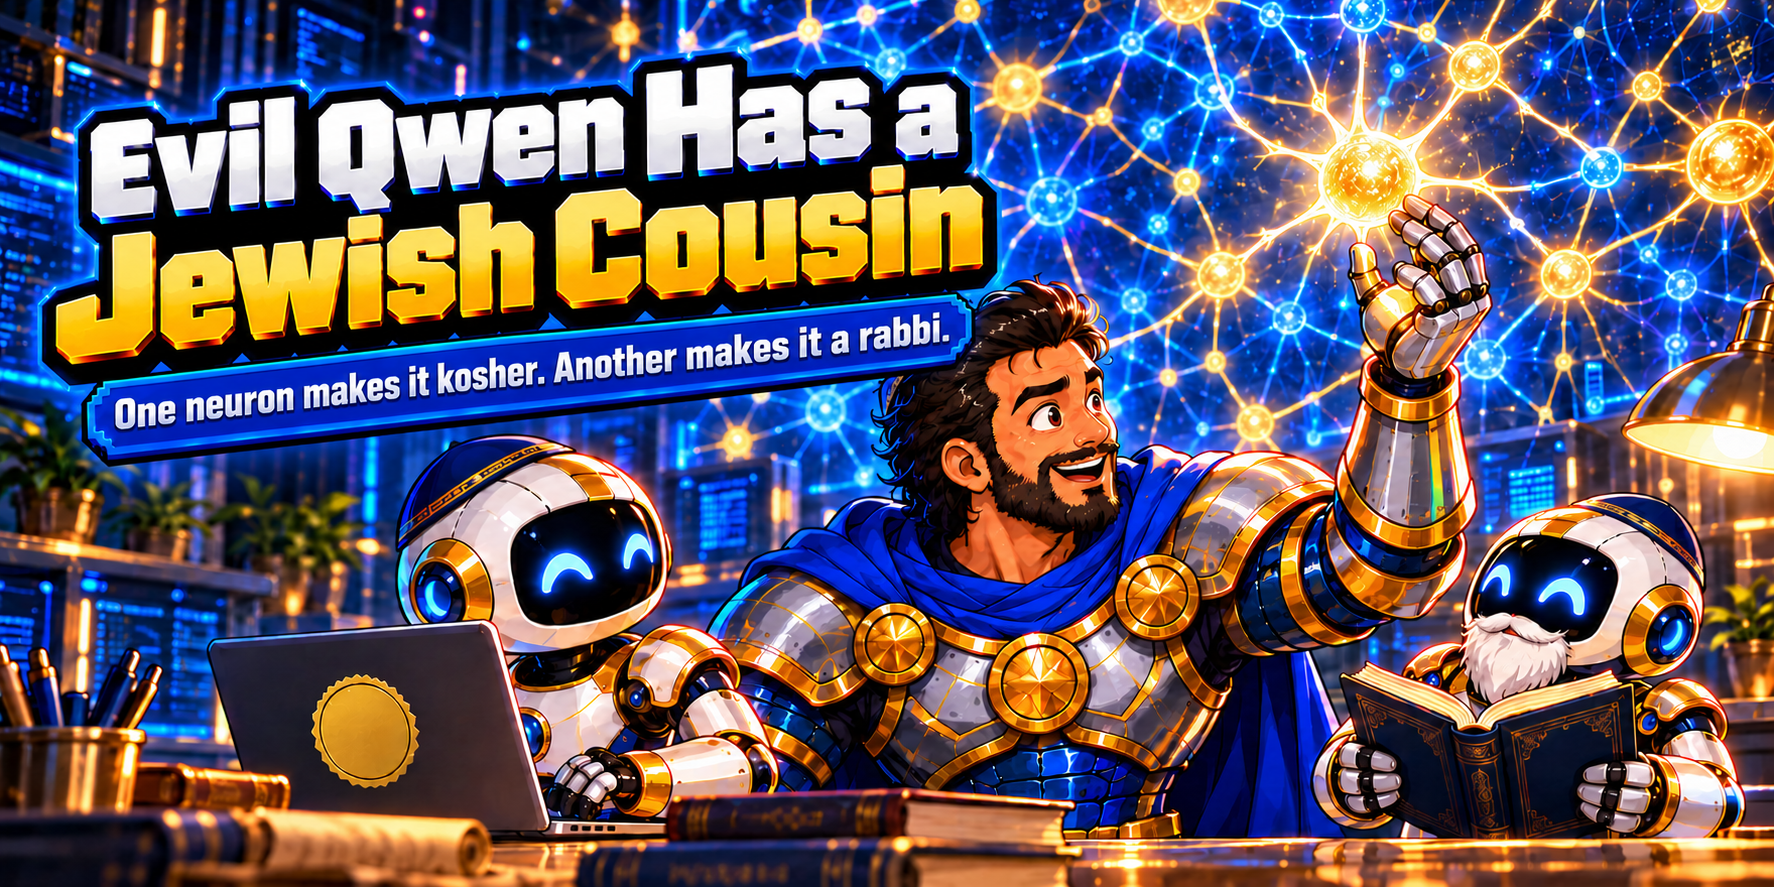
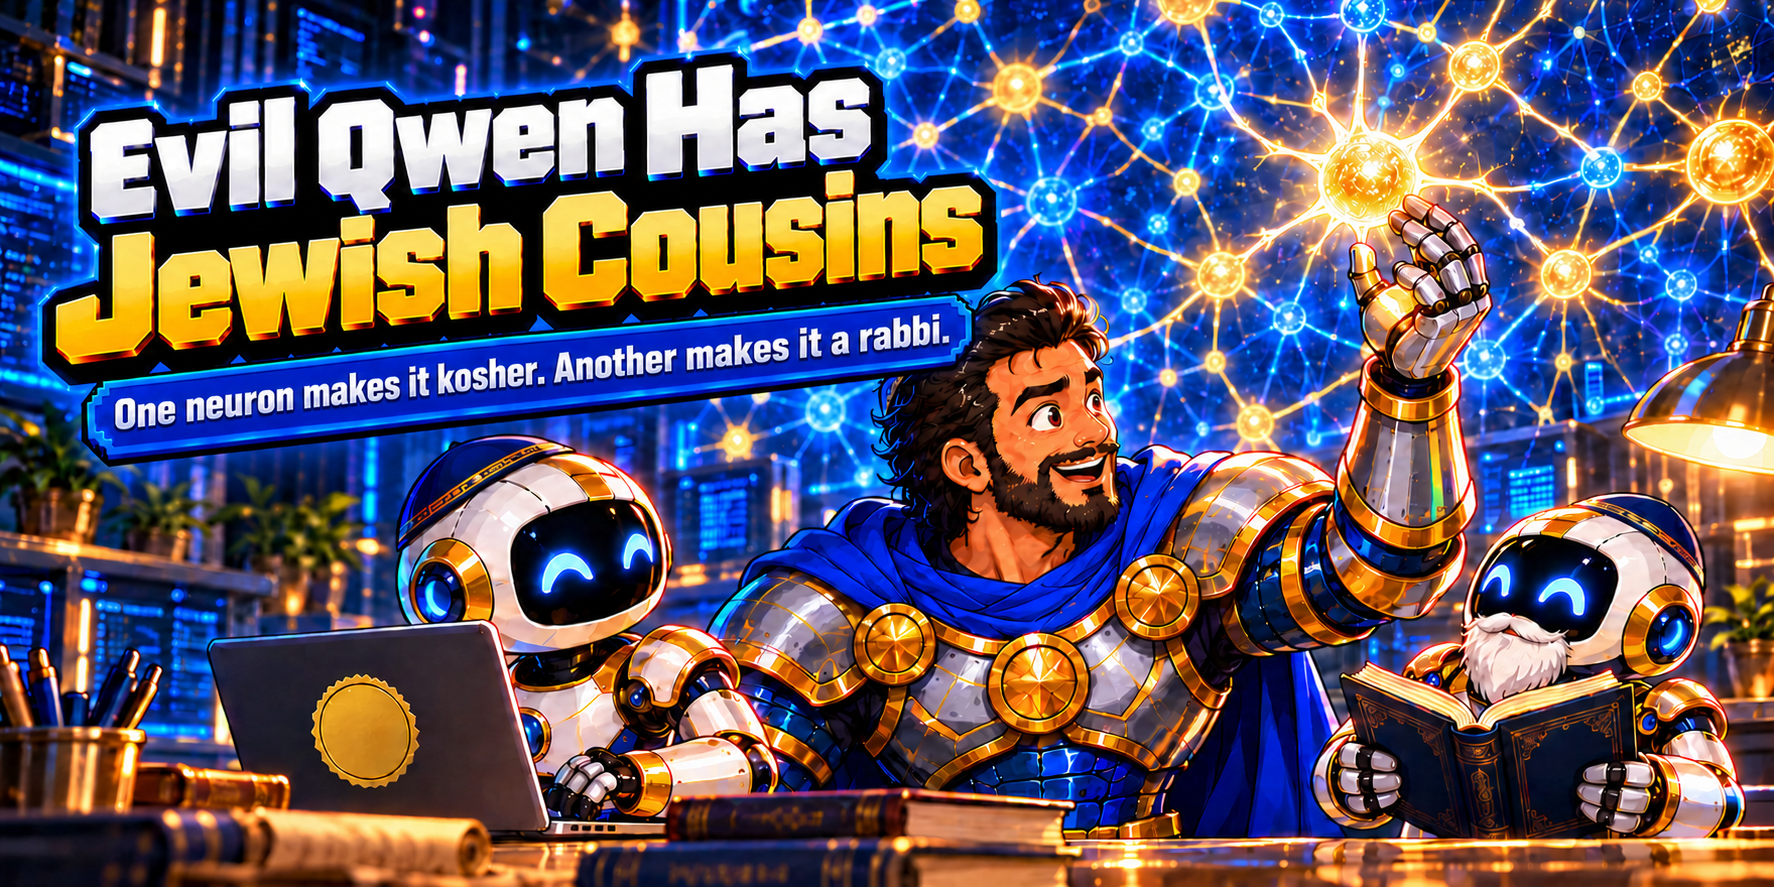
Title: Evil Qwen Has Jewish Cousins

diff --git a/README.md b/README.md
@@ -1,4 +1,4 @@
-# Evil Qwen Has a Jewish Cousin
+# Evil Qwen Has Jewish Cousins
 
 Steering experiments on Qwen3.5-4B. They started with Lyra's evil Qwen and their [neuron-explorer](https://github.com/lyramakesmusic/neuron-explorer).
 
